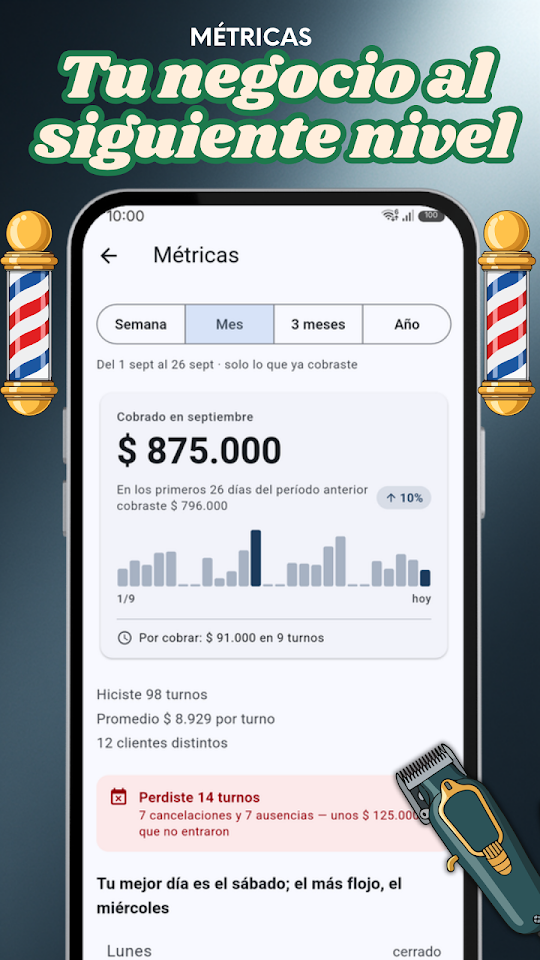
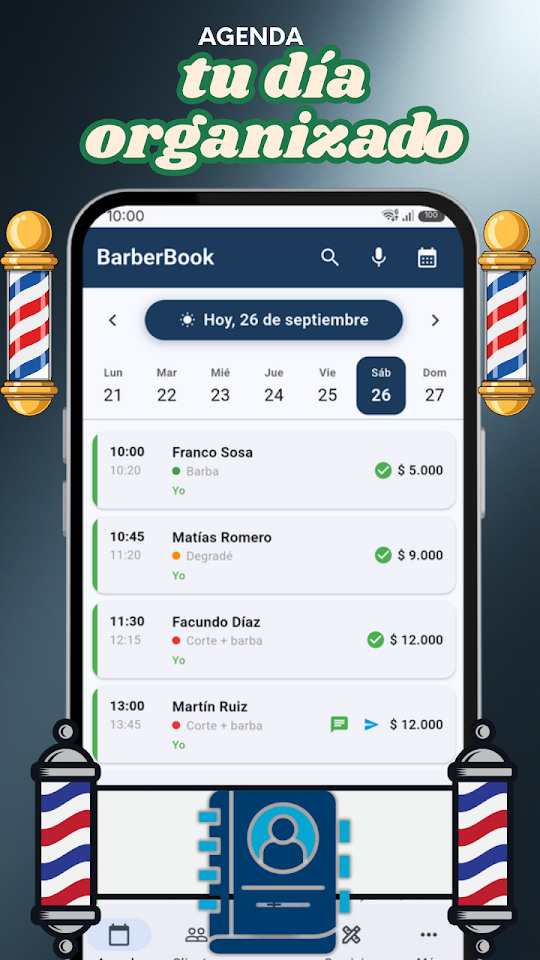
README, CHANGELOG and screenshots for 0.14.0
README (es/en/pt/it) with the Play listing texts published with 0.14.0:
the agenda on a computer of the same Wi-Fi (seeing the day and the week
is free; with PRO you also book, move and complete from there). CHANGELOG
in each language with 0.14.0, from the in-app "what's new". The new store
picture goes second in assets/, as in Play.

Claude-Session: https://claude.ai/code/session_01F2oKLoP6UqA3vJ2QB2BELF

diff --git a/README.md b/README.md
@@ -23,6 +23,10 @@ Pensada para barberos y peluqueros que quieren organizarse sin complicaciones. G
 
 Visualizá todos tus turnos del día de un vistazo. Deslizá para cambiar de día, tocá para ver los detalles, reprogramá o cancelá turnos de forma individual o en lote. Sumá varios servicios en un mismo turno: el tiempo y el precio se suman solos.
 
+## 💻 TAMBIÉN EN TU COMPUTADORA
+
+Prendé el portal en la app y abrí tu agenda en el navegador de una PC de tu mismo Wi-Fi: la semana entera a pantalla grande. No hay que instalar nada en la computadora ni crear una cuenta, y tus datos no salen de tu red.
+
 ## 🎙 TURNOS POR VOZ
 
 Cargá turnos hablando. Decí "Pedro mañana a las 10 corte y barba" y BarberBook lo interpreta automáticamente. Ideal para cuando tenés las manos ocupadas.
@@ -57,13 +61,14 @@ Tu agenda se guarda sólo en tu teléfono, sin servidores externos ni registro. 
 - Hasta 50 clientes, 15 servicios y 3 barberos
 - Turnos por voz y recordatorios WhatsApp
 - Enlace y QR para pedir turno por WhatsApp, y horarios libres listos para mandar
+- Tu agenda en la computadora: día y semana, por tu Wi-Fi
 - Ficha de clientes con historial y clasificación
 - Métricas de ingresos y servicios
 - Aviso nocturno del día siguiente
 
 ## ⭐ BARBERBOOK PRO
 
-Sin publicidad. Clientes, servicios y barberos del equipo sin límite, más copia de seguridad para llevarte todo a otro teléfono. 7 días gratis; cancelás cuando quieras desde Google Play.
+Sin publicidad. Clientes, servicios y barberos del equipo sin límite, más copia de seguridad para llevarte todo a otro teléfono. Desde la computadora también agendás, movés y completás turnos. 7 días gratis; cancelás cuando quieras desde Google Play.
 
 Desarrollada por EgeaINC — Gabriel Egea.
 

diff --git a/README-it.md b/README-it.md
@@ -23,6 +23,10 @@ Pensata per barbieri e parrucchieri che vogliono organizzarsi senza complicazion
 
 Visualizza tutti gli appuntamenti del giorno in un colpo d'occhio. Scorri per cambiare giorno, tocca per i dettagli, riprogramma o cancella individualmente o in blocco. Aggiungi più servizi allo stesso appuntamento: durata e prezzo si sommano da soli.
 
+## 💻 ANCHE SUL TUO COMPUTER
+
+Attiva il portale nell'app e apri la tua agenda nel browser di un PC collegato al tuo stesso Wi-Fi: tutta la settimana a schermo grande. Non serve installare nulla sul computer né creare un account, e i tuoi dati non escono dalla tua rete.
+
 ## 🎙 APPUNTAMENTI CON LA VOCE
 
 Prenota parlando: "Pedro domani alle 10 taglio e barba". BarberBook capisce nome, data, ora e servizio automaticamente.
@@ -61,13 +65,14 @@ BarberBook è completamente in italiano — interfaccia, notifiche, promemoria e
 - Fino a 50 clienti, 15 servizi e 3 barbieri
 - Appuntamenti vocali e promemoria WhatsApp
 - Link e QR per ricevere richieste su WhatsApp, e orari liberi pronti da inviare
+- La tua agenda sul computer: giorno e settimana, dal tuo Wi-Fi
 - Scheda clienti con storico e classificazione
 - Metriche di guadagni e servizi
 - Avviso notturno del giorno successivo
 
 ## ⭐ BARBERBOOK PRO
 
-Senza pubblicità. Clienti, servizi e barbieri del team senza limite, più il backup per portare tutto su un altro telefono. 7 giorni gratis; annulli quando vuoi da Google Play.
+Senza pubblicità. Clienti, servizi e barbieri del team senza limite, più il backup per portare tutto su un altro telefono. Dal computer puoi anche prenotare, spostare e completare appuntamenti. 7 giorni gratis; annulli quando vuoi da Google Play.
 
 Sviluppato da EgeaINC — Gabriel Egea.
 

diff --git a/README-pt.md b/README-pt.md
@@ -23,6 +23,10 @@ Feita para barbeiros e cabeleireiros que querem se organizar sem complicações.
 
 Veja todos os horários do dia de uma vez. Deslize para mudar de dia, toque para ver os detalhes, reagende ou cancele horários individualmente ou em lote. Inclua vários serviços no mesmo agendamento: o tempo e o preço se somam sozinhos.
 
+## 💻 TAMBÉM NO SEU COMPUTADOR
+
+Ligue o portal no app e abra a sua agenda no navegador de um PC do seu mesmo Wi-Fi: a semana inteira em tela grande. Não é preciso instalar nada no computador nem criar conta, e os seus dados não saem da sua rede.
+
 ## 🎙 AGENDAMENTO POR VOZ
 
 Agende falando: "Pedro amanhã às 10 corte e barba". O BarberBook entende o nome, a data, o horário e o serviço automaticamente.
@@ -57,13 +61,14 @@ Sua agenda fica só no seu telefone, sem servidores externos e sem cadastro. Nun
 - Até 50 clientes, 15 serviços e 3 barbeiros
 - Agendamento por voz e lembretes WhatsApp
 - Link e QR code para receber pedidos pelo WhatsApp, e horários livres prontos para enviar
+- A sua agenda no computador: dia e semana, pelo seu Wi-Fi
 - Ficha de clientes com histórico e classificação
 - Métricas de receita e serviços
 - Aviso noturno do dia seguinte
 
 ## ⭐ BARBERBOOK PRO
 
-Sem anúncios. Clientes, serviços e barbeiros da equipe sem limite, além de backup para levar tudo para outro celular. 7 dias grátis; cancele quando quiser no Google Play.
+Sem anúncios. Clientes, serviços e barbeiros da equipe sem limite, além de backup para levar tudo para outro celular. Pelo computador você também agenda, move e conclui agendamentos. 7 dias grátis; cancele quando quiser no Google Play.
 
 Desenvolvido por EgeaINC — Gabriel Egea.
 

diff --git a/README-en.md b/README-en.md
@@ -23,6 +23,10 @@ Built for barbers and hairdressers who want to stay organized without the hassle
 
 See all your appointments at a glance. Swipe to change days, tap for details, reschedule or cancel individually or in bulk. Add several services to one appointment: time and price add up on their own.
 
+## 💻 ON YOUR COMPUTER TOO
+
+Turn the portal on in the app and open your agenda in the browser of a PC on your same Wi-Fi: the whole week on a big screen. Nothing to install on the computer and no account to create, and your data never leaves your network.
+
 ## 🎙 VOICE BOOKING
 
 Book by speaking: "Pedro tomorrow at 10 haircut and beard trim". BarberBook understands the name, date, time, and service automatically.
@@ -57,13 +61,14 @@ Your agenda is stored only on your phone, with no external servers and no sign-u
 - Up to 50 clients, 15 services and 3 barbers
 - Voice booking & WhatsApp reminders
 - Link and QR code for booking requests on WhatsApp, and free times ready to send
+- Your agenda on your computer: day and week, over your Wi-Fi
 - Client profiles with history and rating
 - Revenue & service metrics
 - Next-day appointment alert
 
 ## ⭐ BARBERBOOK PRO
 
-No ads. Unlimited clients, services and barbers on your team, plus a backup you can carry to another phone. 7 days free; cancel anytime from Google Play.
+No ads. Unlimited clients, services and barbers on your team, plus a backup you can carry to another phone. From your computer you also book, move and complete appointments. 7 days free; cancel anytime from Google Play.
 
 Developed by EgeaINC — Gabriel Egea.
 

diff --git a/CHANGELOG-en.md b/CHANGELOG-en.md
@@ -1,5 +1,12 @@
 # What's new in BarberBook
 
+## 0.14.0 — October 2026
+**Your agenda, now on your computer too**
+
+- Turn the portal on in More › Use on your computer and open the address in the browser of a PC on your same Wi-Fi.
+- Seeing the day and the week is free. With PRO you also book, move and complete appointments.
+- Your data stays on your phone: the computer reads it over your network and nothing goes through the internet.
+
 ## 0.13.0 — October 2026
 - Several services per appointment: pick them when booking or add one from the details. Time and price add up on their own.
 - By voice too: say the services together when dictating.

diff --git a/CHANGELOG-it.md b/CHANGELOG-it.md
@@ -1,5 +1,12 @@
 # Novità di BarberBook
 
+## 0.14.0 — ottobre 2026
+**La tua agenda, ora anche sul computer**
+
+- Attiva il portale in Altro › Usa dal computer e apri l'indirizzo nel browser di un PC del tuo stesso Wi-Fi.
+- Vedere il giorno e la settimana è gratis. Con PRO puoi anche prenotare, spostare e completare appuntamenti.
+- I tuoi dati restano sul tuo telefono: il computer li legge dalla tua rete e niente passa da internet.
+
 ## 0.13.0 — ottobre 2026
 - Più servizi per appuntamento: sceglili quando prenoti o aggiungine uno dai dettagli. Tempo e prezzo si sommano da soli.
 - Anche a voce: di' i servizi insieme quando detti.

diff --git a/CHANGELOG.md b/CHANGELOG.md
@@ -1,5 +1,12 @@
 # Novedades de BarberBook
 
+## 0.14.0 — octubre 2026
+**Tu agenda, ahora también en la computadora**
+
+- Prendé el portal en Más › Usar en la computadora y abrí la dirección en el navegador de una PC de tu mismo Wi-Fi.
+- Ver el día y la semana es gratis. Con PRO también agendás, movés y completás turnos.
+- Tus datos siguen en tu teléfono: la computadora los lee por tu red y nada pasa por internet.
+
 ## 0.13.0 — octubre 2026
 - Varios servicios por turno: elegilos al agendar o sumá uno desde el detalle. El tiempo y el precio se suman solos.
 - Por voz también: nombrá los servicios juntos al dictar.

diff --git a/CHANGELOG-pt.md b/CHANGELOG-pt.md
@@ -1,5 +1,12 @@
 # Novidades do BarberBook
 
+## 0.14.0 — outubro 2026
+**A sua agenda, agora também no computador**
+
+- Ligue o portal em Mais › Usar no computador e abra o endereço no navegador de um PC do seu mesmo Wi-Fi.
+- Ver o dia e a semana é grátis. Com o PRO você também agenda, move e conclui agendamentos.
+- Os seus dados continuam no seu celular: o computador os lê pela sua rede e nada passa pela internet.
+
 ## 0.13.0 — outubro 2026
 - Vários serviços por agendamento: escolha ao agendar ou adicione um nos detalhes. O tempo e o valor se somam sozinhos.
 - Por voz também: diga os serviços juntos ao ditar.
